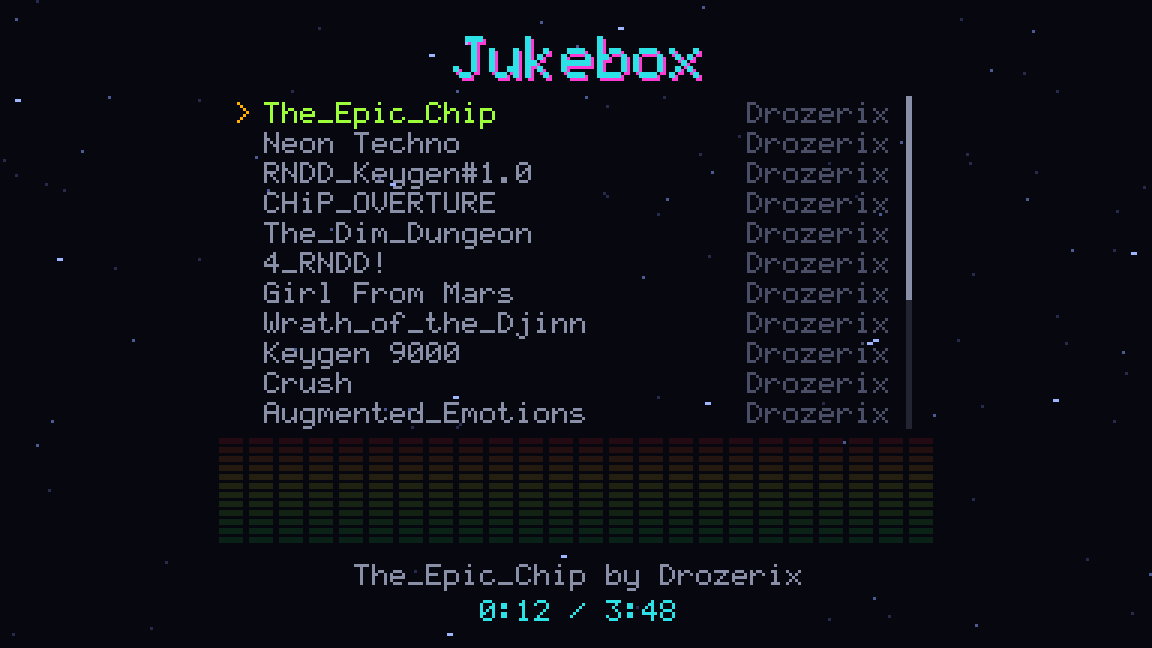
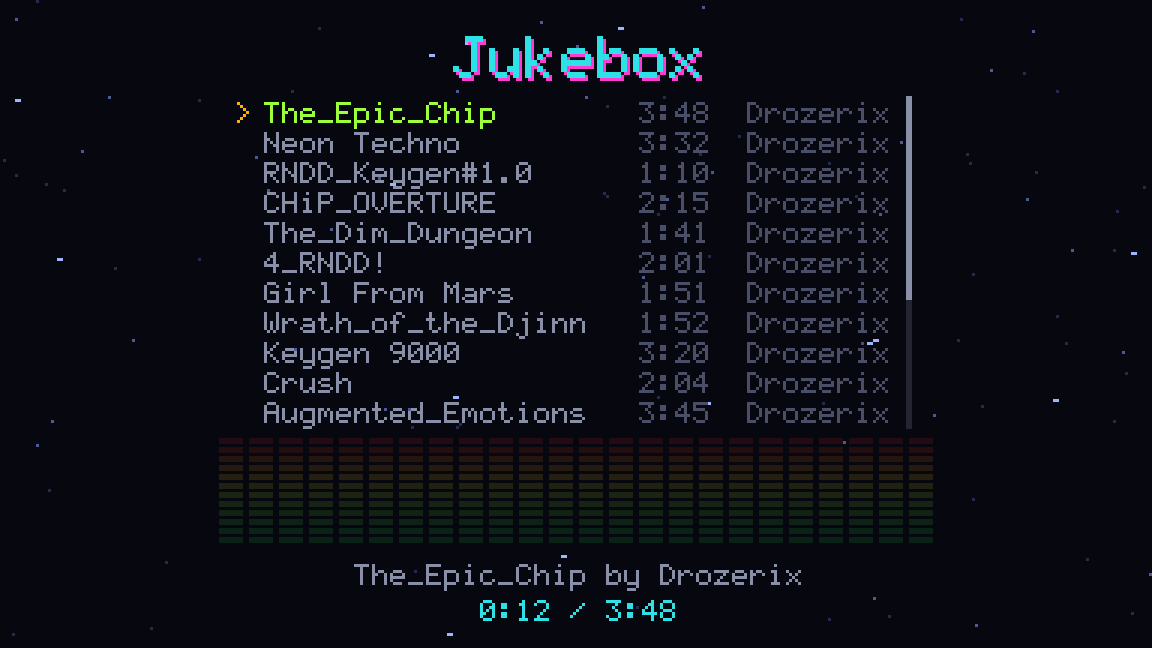
Show each song's length in the jukebox, between title and author
Bundled songs carry their length in music/manifest.json as "seconds",
libopenmpt's duration to the millisecond, which pnpm check:music
verifies. An imported song's length is its analysis's totalSamples at
tempo 1000, stored with it; one imported earlier learns it the first
time it plays. Titles keep 18 characters and authors 9 in the row.

Claude-Session: https://claude.ai/code/session_01JHfHGCLy1xFvhSVxtBfjqe

Changed region(s): [[0.5625, 0.1543, 0.625, 0.6481]]

diff --git a/packages/client/src/game/screens.ts b/packages/client/src/game/screens.ts
@@ -6,7 +6,7 @@ import { Container, Sprite, Texture } from 'pixi.js';
 import { BRAND } from '../config/brand.ts';
 import { AMBER, BACKGROUND, CYAN, DIM_GREY, GREY, LED_DIM, LED_LIT, LIME, MAGENTA, WHITE } from '../render/palette.ts';
 import { PixelText } from '../render/text.ts';
-import { textWidth } from '../render/font.ts';
+import { GLYPH_ADVANCE, textWidth } from '../render/font.ts';
 import { DIFFICULTY_LABELS, PAUSE_ITEMS, SETTINGS_ITEMS, TITLE_ITEMS, type PauseItem, type SettingsItem, type TitleItem } from './menu.ts';
 import { VOLUME_LEVELS, type Settings } from './settings.ts';
 import type { BundledSong } from './songs.ts';
@@ -240,6 +240,14 @@ export function jukeboxTop(top: number, cursor: number, rows: number): number {
 }
 
 const SCROLL_BAR_X = LIST_RIGHT + 6;
+/**
+ * A row is the title, the length right-aligned in a column, and the author at the right
+ * edge (Brad, 2026-11-11). Authors keep 9 characters and titles 18, the longest bundled
+ * ones; an imported song's longer title or author is cut to fit.
+ */
+const AUTHOR_CHARS = 9;
+const TITLE_CHARS = 18;
+const TIME_RIGHT = LIST_RIGHT - AUTHOR_CHARS * GLYPH_ADVANCE - GLYPH_ADVANCE;
 
 /** Where the list's last row ends and the spectrum starts, for tests. */
 export const JUKEBOX_LIMITS = { spectrumTop: SPECTRUM_TOP, textHeight: TEXT_HEIGHT };
@@ -259,6 +267,7 @@ export class JukeboxScreen {
   #marker = new PixelText('>', AMBER);
   /** One title and one right-hand text per visible row, filled from `#top`. */
   #titles: PixelText[] = [];
+  #times: PixelText[] = [];
   #rights: PixelText[] = [];
   #track = new Sprite(Texture.WHITE);
   #thumb = new Sprite(Texture.WHITE);
@@ -278,10 +287,12 @@ export class JukeboxScreen {
     this.container.addChild(shadow, heading, this.#marker);
     for (let i = 0; i < JUKEBOX_VISIBLE_ROWS; i++) {
       const title = new PixelText('');
+      const time = new PixelText('', DIM_GREY);
       const right = new PixelText('', DIM_GREY);
       this.#titles.push(title);
+      this.#times.push(time);
       this.#rights.push(right);
-      this.container.addChild(title, right);
+      this.container.addChild(title, time, right);
     }
     this.#track.tint = DIM_GREY;
     this.#track.alpha = 0.4;
@@ -321,14 +332,21 @@ export class JukeboxScreen {
     return this.#top;
   }
 
-  #label(i: number, view: JukeboxView): { title: string; right: string; song: BundledSong | null } {
+  #label(i: number, view: JukeboxView): { title: string; time: string; right: string; song: BundledSong | null } {
     const song = this.#songs[i];
-    if (song) return { title: song.title, right: song.author, song };
-    if (i > this.#songs.length) return { title: 'Back', right: '', song: null };
-    if (!this.#folder) return { title: 'Import', right: '', song: null };
+    if (song) {
+      return {
+        title: song.title.slice(0, TITLE_CHARS),
+        time: song.seconds === null ? '' : clockText(song.seconds),
+        right: song.author.slice(0, AUTHOR_CHARS),
+        song,
+      };
+    }
+    if (i > this.#songs.length) return { title: 'Back', time: '', right: '', song: null };
+    if (!this.#folder) return { title: 'Import', time: '', right: '', song: null };
     // "< File >" on the selected row, like the title screen's choices: left and right change it.
     const value = view.importFolder ? 'Folder' : 'File';
-    return { title: 'Import', right: i === view.cursor ? `< ${value} >` : `${value}  `, song: null };
+    return { title: 'Import', time: '', right: i === view.cursor ? `< ${value} >` : `${value}  `, song: null };
   }
 
   update(view: JukeboxView): void {
@@ -351,9 +369,10 @@ export class JukeboxScreen {
     this.#top = jukeboxTop(this.#top, view.cursor, rows);
     for (let slot = 0; slot < JUKEBOX_VISIBLE_ROWS; slot++) {
       const title = this.#titles[slot]!;
+      const time = this.#times[slot]!;
       const right = this.#rights[slot]!;
       const i = this.#top + slot;
-      title.visible = right.visible = slot < visible;
+      title.visible = time.visible = right.visible = slot < visible;
       if (slot >= visible) continue;
       const y = jukeboxRowY(slot, visible);
       const row = this.#label(i, view);
@@ -362,6 +381,9 @@ export class JukeboxScreen {
       title.color = i === view.playing ? LIME : onCursor ? AMBER : GREY;
       title.place(LIST_LEFT, y);
       const hint = onCursor && row.song?.imported ? view.removeHint : '';
+      // The remove hint is wider than an author, so the length gives way to it.
+      time.text = hint ? '' : row.time;
+      time.place(TIME_RIGHT, y, 'right');
       right.text = hint || row.right;
       right.color = hint ? (view.removeArmed ? MAGENTA : AMBER) : onCursor && !row.song && row.right ? AMBER : DIM_GREY;
       right.place(LIST_RIGHT, y, 'right');

diff --git a/tools/validate-manifest.ts b/tools/validate-manifest.ts
@@ -2,11 +2,13 @@
 // and their credits (docs/PLAN.md, "Bundled music"), and the test songs' manifest in
 // packages/analysis/fixtures/test-songs the same way. Fails when a song file isn't listed, a
 // listed file is missing, a hash doesn't match, a field is empty, or a license isn't on the
-// allowlist. CC BY-SA fails until the entry records who reviewed it and when.
+// allowlist. CC BY-SA fails until the entry records who reviewed it and when. A bundled song's
+// "seconds", its length for the jukebox, must match libopenmpt's to the millisecond.
 // Usage: node tools/validate-manifest.ts
 
 import { createHash } from 'node:crypto';
 import { readFileSync, readdirSync } from 'node:fs';
+import { loadOpenMpt } from '../packages/analysis/src/index.ts';
 
 const MUSIC = new URL('../music/', import.meta.url);
 const TEST_SONGS = new URL('../packages/analysis/fixtures/test-songs/', import.meta.url);
@@ -16,9 +18,13 @@ const ALLOWED = /^(?:Public Domain|CC0(?: 1\.0)?|CC BY(?: [1-4]\.0)?)$/;
 const NEEDS_REVIEW = /^CC BY-SA(?: [1-4]\.0)?$/;
 
 const errors: string[] = [];
+const openmpt = await loadOpenMpt();
 
-/** Checks `manifest.json` in `folder` (shown as `label`) and returns the files it lists. */
-function checkFolder(folder: URL, label: string): Set<string> {
+/**
+ * Checks `manifest.json` in `folder` (shown as `label`) and returns the files it lists. With
+ * `lengths`, each entry also needs its song's length in seconds.
+ */
+function checkFolder(folder: URL, label: string, lengths: boolean): Set<string> {
   const listed = new Set<string>();
   const manifest: unknown = JSON.parse(readFileSync(new URL('manifest.json', folder), 'utf8'));
   if (!Array.isArray(manifest)) {
@@ -57,6 +63,12 @@ function checkFolder(folder: URL, label: string): Set<string> {
     }
     const hash = createHash('sha256').update(bytes).digest('hex');
     if (hash !== entry['sha256']) fail(`sha256 is ${hash}, the manifest says ${String(entry['sha256'])}`);
+    if (lengths) {
+      const mod = openmpt.load(new Uint8Array(bytes));
+      const seconds = Math.round(mod.durationSeconds() * 1000) / 1000;
+      mod.destroy();
+      if (entry['seconds'] !== seconds) fail(`"seconds" must be ${seconds}, libopenmpt's length; the manifest says ${String(entry['seconds'])}`);
+    }
   }
   for (const file of readdirSync(folder)) {
     if (SONG_FILE.test(file) && !listed.has(file)) errors.push(`${label}${file}: not in manifest.json`);
@@ -64,8 +76,8 @@ function checkFolder(folder: URL, label: string): Set<string> {
   return listed;
 }
 
-const listed = checkFolder(MUSIC, 'music/');
-const tests = checkFolder(TEST_SONGS, 'packages/analysis/fixtures/test-songs/');
+const listed = checkFolder(MUSIC, 'music/', true);
+const tests = checkFolder(TEST_SONGS, 'packages/analysis/fixtures/test-songs/', false);
 
 // music/arcade.json names the arcade run's songs by file name without the extension.
 const arcade: unknown = JSON.parse(readFileSync(new URL('arcade.json', MUSIC), 'utf8'));
@@ -80,4 +92,4 @@ if (errors.length > 0) {
   for (const e of errors) console.error(e);
   process.exit(1);
 }
-console.log(`${listed.size} bundled songs and ${tests.size} test songs, all listed, hashed and licensed`);
+console.log(`${listed.size} bundled songs and ${tests.size} test songs, all listed, hashed and licensed, lengths checked`);

diff --git a/packages/client/src/game/game.ts b/packages/client/src/game/game.ts
@@ -1741,6 +1741,22 @@ export class Game {
     this.#loaded = song;
     this.#loadedTempo = tempoPermille;
     this.#loadedSeconds = loaded.durationSeconds;
+    if (song.seconds === null && tempoPermille === 1000) this.#learnLength(song, loaded.durationSeconds);
+  }
+
+  /**
+   * Records the length of a song imported before lengths were kept, once it has played, for
+   * the jukebox's list and the library.
+   */
+  #learnLength(song: BundledSong, seconds: number): void {
+    song.seconds = Math.round(seconds * 1000) / 1000;
+    this.#jukebox.setSongs(this.#songs);
+    const hash = song.sha256;
+    if (!song.imported || !hash) return;
+    void this.#library.then(async (library) => {
+      const stored = await library?.song(hash);
+      if (library && stored) await library.putSong({ ...stored, seconds: song.seconds! });
+    }).catch((err: unknown) => console.warn('song length not saved:', err));
   }
 
   /**
@@ -1942,7 +1958,8 @@ export class Game {
           bad++;
           continue;
         }
-        const meta = deserializeLevelData(serialized).meta;
+        const data = deserializeLevelData(serialized);
+        const meta = data.meta;
         const stored: StoredSong = {
           sha256: hash,
           fileName: file.name,
@@ -1950,6 +1967,9 @@ export class Game {
           artist: meta.artist.trim(),
           bytes: bytes.buffer as ArrayBuffer,
           added: Date.now(),
+          // Analyzed as written (tempo 1000), so this is its length as the jukebox plays it,
+          // unless analysis stopped at its cap; then it's learned on the first play.
+          ...(data.hitDurationCap ? {} : { seconds: Math.round((data.totalSamples / SAMPLE_RATE) * 1000) / 1000 }),
         };
         if (library) {
           try {

diff --git a/packages/client/src/game/songs.ts b/packages/client/src/game/songs.ts
@@ -26,6 +26,11 @@ export interface BundledSong {
   sha256: string | null;
   /** Imported by the player (library.ts) rather than bundled; `url` is then an object URL. */
   imported: boolean;
+  /**
+   * The song's length in seconds, shown in the jukebox, or null until it's known. Bundled
+   * songs have it in the manifest (checked against libopenmpt by tools/validate-manifest.ts).
+   */
+  seconds: number | null;
 }
 
 const urls = import.meta.glob<string>('../../../../music/*.{mod,xm,s3m,it,mptm}', {
@@ -47,6 +52,7 @@ export const SONGS: readonly BundledSong[] = manifest.map((entry) => {
     sourceUrl: entry.sourceUrl,
     sha256: entry.sha256,
     imported: false,
+    seconds: entry.seconds,
   };
 });
 
@@ -94,6 +100,7 @@ export const TEST_SONG: BundledSong = {
   sourceUrl: null,
   sha256: null,
   imported: false,
+  seconds: null,
 };
 
 /**
@@ -133,6 +140,7 @@ export function importedSong(stored: StoredSong): BundledSong {
     sourceUrl: null,
     sha256: stored.sha256,
     imported: true,
+    seconds: stored.seconds ?? null,
   };
 }
 

diff --git a/packages/client/src/game/library.ts b/packages/client/src/game/library.ts
@@ -28,6 +28,8 @@ export interface StoredSong {
   bytes: ArrayBuffer;
   /** When it was imported, in ms since the epoch. */
   added: number;
+  /** Its length in seconds; songs imported before 2026-11-11 learn it the first time they play. */
+  seconds?: number;
 }
 
 export interface CachedLevel {

diff --git a/docs/DEVELOPMENT.md b/docs/DEVELOPMENT.md
@@ -1269,7 +1269,10 @@ Run `pnpm dev` and open the URL it prints.
 - **Jukebox:** the bundled songs, then the imported ones, then Import and Back. Where the
   browser's file picker can pick a folder (`webkitdirectory`, Baseline since August 2025
   per MDN), left and right on Import choose "< File >" or "< Folder >" (Brad, 2026-11-10:
-  one row, not two). Under the list is a 24-bar spectrum of what is playing, and under
+  one row, not two). Each song's row has its title, its length (m:ss) in a column, and its
+  author at the right edge (Brad, 2026-11-11). A title keeps 18 characters and an author 9,
+  the longest bundled ones; an imported song's longer ones are cut, and on an imported
+  song under the cursor the remove hint takes the length's place. Under the list is a 24-bar spectrum of what is playing, and under
   that the song's title, credit and time. Enter plays the song under the cursor or stops
   it if it is playing, a song that ends hands over to the next, and Esc or Back returns to
   the title, where the title music starts again. The list shows 11 rows at 10 px
@@ -1351,7 +1354,8 @@ The part each song plays is set in `songs.ts`, not the manifest:
 song file in `music/` has no entry or an entry has no file, a SHA-256 doesn't match, a
 credit field is empty or a link isn't https, or a license is off the allowlist (Public
 Domain, CC0, CC BY). A CC BY-SA entry fails until it has a `"reviewed"` field saying who
-reviewed it and when.
+reviewed it and when. A bundled song's `"seconds"` must equal libopenmpt's length,
+rounded to the millisecond; the test songs need none.
 
 The sixteen songs so far, all by Drozerix (Brad, 2026-11-10: JAM's songs sound out of place
 beside Drozerix's), each marked Public Domain on its Mod Archive page, with the file's MD5
@@ -1397,7 +1401,9 @@ through `idb` 8.0.4, in the database `pattern-break` (version 1):
   screen's two levels took 13 s to appear on the first load and 3 s after a reload, with no
   analysis worker started.
 - **`songs`**: imported song files, keyed by SHA-256, with the file name, title, artist,
-  bytes and import time (see "Importing songs" under "Menus and the jukebox"). Deleting a
+  bytes, import time and length in seconds. The length is the analysis's `totalSamples`
+  at tempo 1000, unless analysis stopped at its cap; a song without one (imported before
+  2026-11-11, or capped) gets libopenmpt's length the first time it plays, and it is saved (see "Importing songs" under "Menus and the jukebox"). Deleting a
   song deletes its cached levels. At start the game adds the stored songs after the
   bundled ones, with an object URL for each so they load like bundled songs.
 

diff --git a/docs/PLAN.md b/docs/PLAN.md
@@ -307,7 +307,10 @@ every bar of every generated level.
 
 ## 9. Bundled music (`/music`)
 
-- `manifest.json` entries: `{ file, title, author, authorUrl, sourceUrl, license, licenseUrl, sha256 }`.
+- `manifest.json` entries: `{ file, title, author, authorUrl, sourceUrl, license, licenseUrl, sha256, seconds }`.
+  `seconds` is the song's length for the jukebox, libopenmpt's `get_duration_seconds` to the
+  millisecond; `pnpm check:music` checks it. It equals the rendered length on every bundled
+  song (measured 2026-11-11).
 - **License allowlist: Public Domain, CC0, CC BY.** Exclude NC and ND. Flag **CC BY-SA for
   manual review** instead of accepting it automatically: the CC 3.0 and 4.0 licenses treat
   syncing music to moving images as creating an adaptation, and ShareAlike would then apply
@@ -386,8 +389,8 @@ every bar of every generated level.
   Keygen 9000 last), each opening with a card that credits its song. Levels plays any one
   song. A mini boss ends level 4 and the final boss ends level 8 (see "Level generation").
 - Game over plays the sparse opening of Keygen 9000 and fades out.
-- Jukebox: plays the bundled songs, with an LED spectrum and each song's title, author and
-  license.
+- Jukebox: plays the bundled songs and imported ones, with an LED spectrum and each song's
+  title, length and author (lengths since 2026-11-11). Licenses are on the Credits screen.
 - Library: bundled songs plus imported ones, managed in the Jukebox (Brad, 2026-11-10):
   Import (file picker or drag and drop; left and right choose File or Folder, the file
   picker's folder mode, in every current browser), and Del to remove. Imported files are stored in IndexedDB

diff --git a/docs/ROADMAP.md b/docs/ROADMAP.md
@@ -12,7 +12,6 @@ recorded in the [changelog](CHANGELOG.md). The design behind every item is in
 | Item | What it delivers | Stage |
 |---|---|---|
 | [Destructible terrain](#next) | Missiles and bombs break the walls; loose blocks fall and crush whatever they land on, enemies included. | Next |
-| [Song lengths in the jukebox](#next) | Each song's length beside its title. | Next |
 | [Boss patterns](#later) | A mini boss at the end of level 4 and the final boss at the end of level 8, from the song's patterns. | Later |
 | [Per-song enemy overrides](#later) | A sidecar file that changes which instrument spawns which enemy for one song. | Later |
 | [Amiga PAL mode](#later) | An optional 320x256 display mode. | Later |
@@ -30,14 +29,13 @@ start the next until the current one is done.
 
 ## Next
 
-Asked for by Brad on 2026-11-11, both before the bosses. Neither is planned yet.
+Asked for by Brad on 2026-11-11, before the bosses. Brad approved the plan on 2026-11-11.
 
 - **Destructible terrain:** a missile or bomb breaks the wall segments it bursts on. A
   block cut off from its wall falls under gravity and damages whatever it hits on the way
   down, enemies included, so a player can clear a crowded stretch with it. The ship can
   brake and back up out of the way, and so must the autopilot. It changes the sim, the path
   guarantee, the renderer and the server's replay check, so a plan goes to Brad first.
-- **Song lengths in the jukebox:** each song's length beside its title.
 
 ## Later
 

diff --git a/docs/CHANGELOG.md b/docs/CHANGELOG.md
@@ -13,6 +13,10 @@ Fixes**, in that order.
 
 ## Milestones
 
+* **Song lengths in the jukebox.** Each song's row shows its length between the title and
+  the author, as Brad asked. Bundled songs' lengths are in the music manifest, checked
+  against libopenmpt by `pnpm check:music`; an imported song's is measured when it's
+  imported, or the first time it plays for one imported earlier.
 * **Every weapon stops on the walls, peak dots are gone, and the autopilot plays like a
   person.** Brad didn't like the peak dots and wanted shots to hit walls. Shots, double
   shots, drone shots and the laser now stop on the LED walls, and a missile bursts on them,
